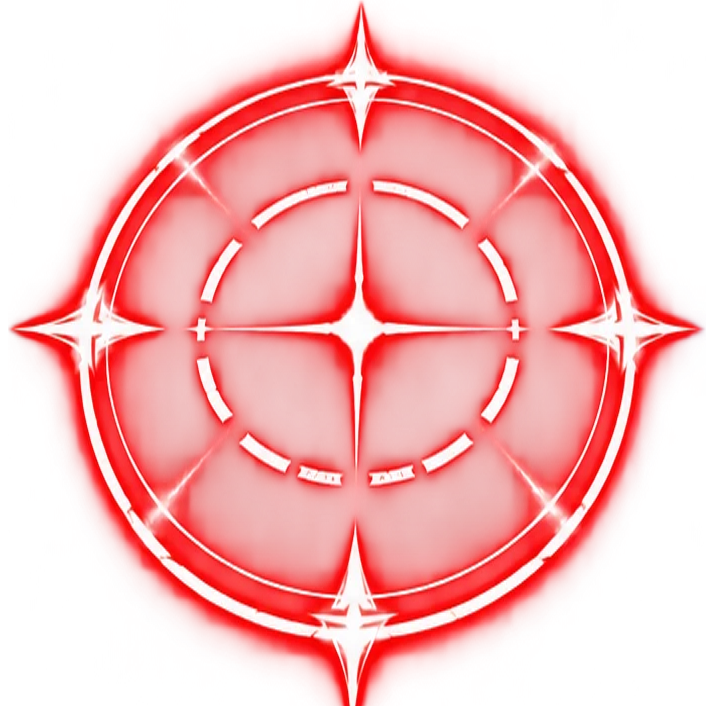
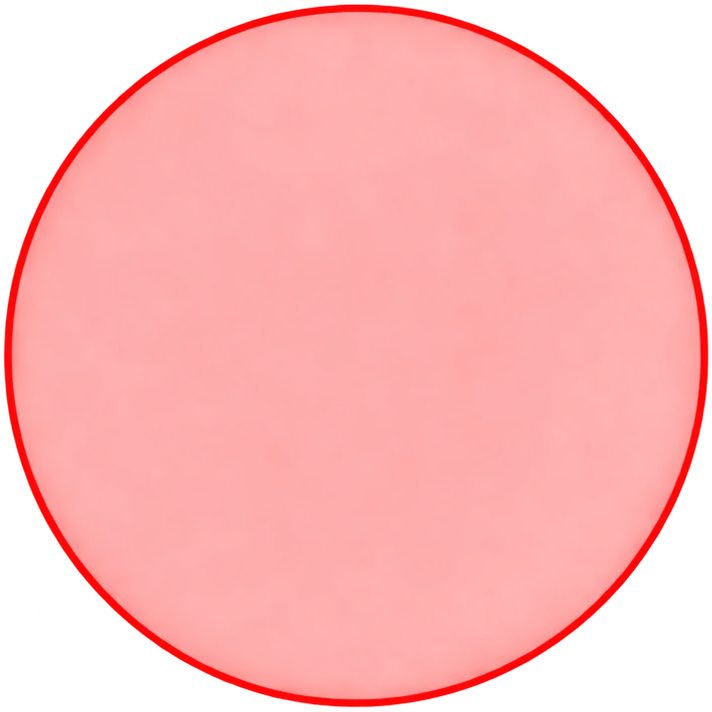
攻撃範囲の画像を縁の線と薄い塗りの赤い円に変える
画像の縁の線が届く距離に来るよう、RANGE_IMAGE_RATE を新しい画像に合わせる

Claude-Session: https://claude.ai/code/session_01P4bx3biqSqrau1w5XevKsM

diff --git a/ButtoBuster/ButtoBuster/Source/Game/Effect/MarkerRenderer.cpp b/ButtoBuster/ButtoBuster/Source/Game/Effect/MarkerRenderer.cpp
@@ -24,7 +24,7 @@ namespace {
     constexpr float RING_IMAGE_RATE = 0.667f;   // 画像の半分の幅に対して、輪のある所 外へは星の飾りが出ている
 
     // ----- 攻撃範囲 (RangeEnemy.png) -----
-    constexpr float RANGE_IMAGE_RATE = 0.779f;  // 画像の半分の幅に対して、外側の輪のある所 ここを届く距離に合わせる
+    constexpr float RANGE_IMAGE_RATE = 0.989f;  // 画像の半分の幅に対して、縁の線の外側 ここを届く距離に合わせる
     constexpr float RANGE_ALPHA = 0.55f;        // 範囲全体の濃さ
     constexpr float RANGE_FILL_ALPHA = 0.8f;    // 中から満ちていく分の濃さ 満ちきったときに当たる
 
@@ -155,7 +155,7 @@ void MarkerRenderer::BuildRange(const RangeDesc& desc, float scale, float alpha)
 
     const COLOR_U8 white = GetColorU8(255, 255, 255, 255);
 
-    // 画像の外側の輪が届く距離に来るよう、画像の半分の幅をこの長さにする
+    // 画像の縁の線が届く距離に来るよう、画像の半分の幅をこの長さにする
     // 満ちていく分は画像ごと縮めるので、uv は縮めない
     float imageHalf = desc.radius / RANGE_IMAGE_RATE * scale;
     VECTOR center = desc.center;
